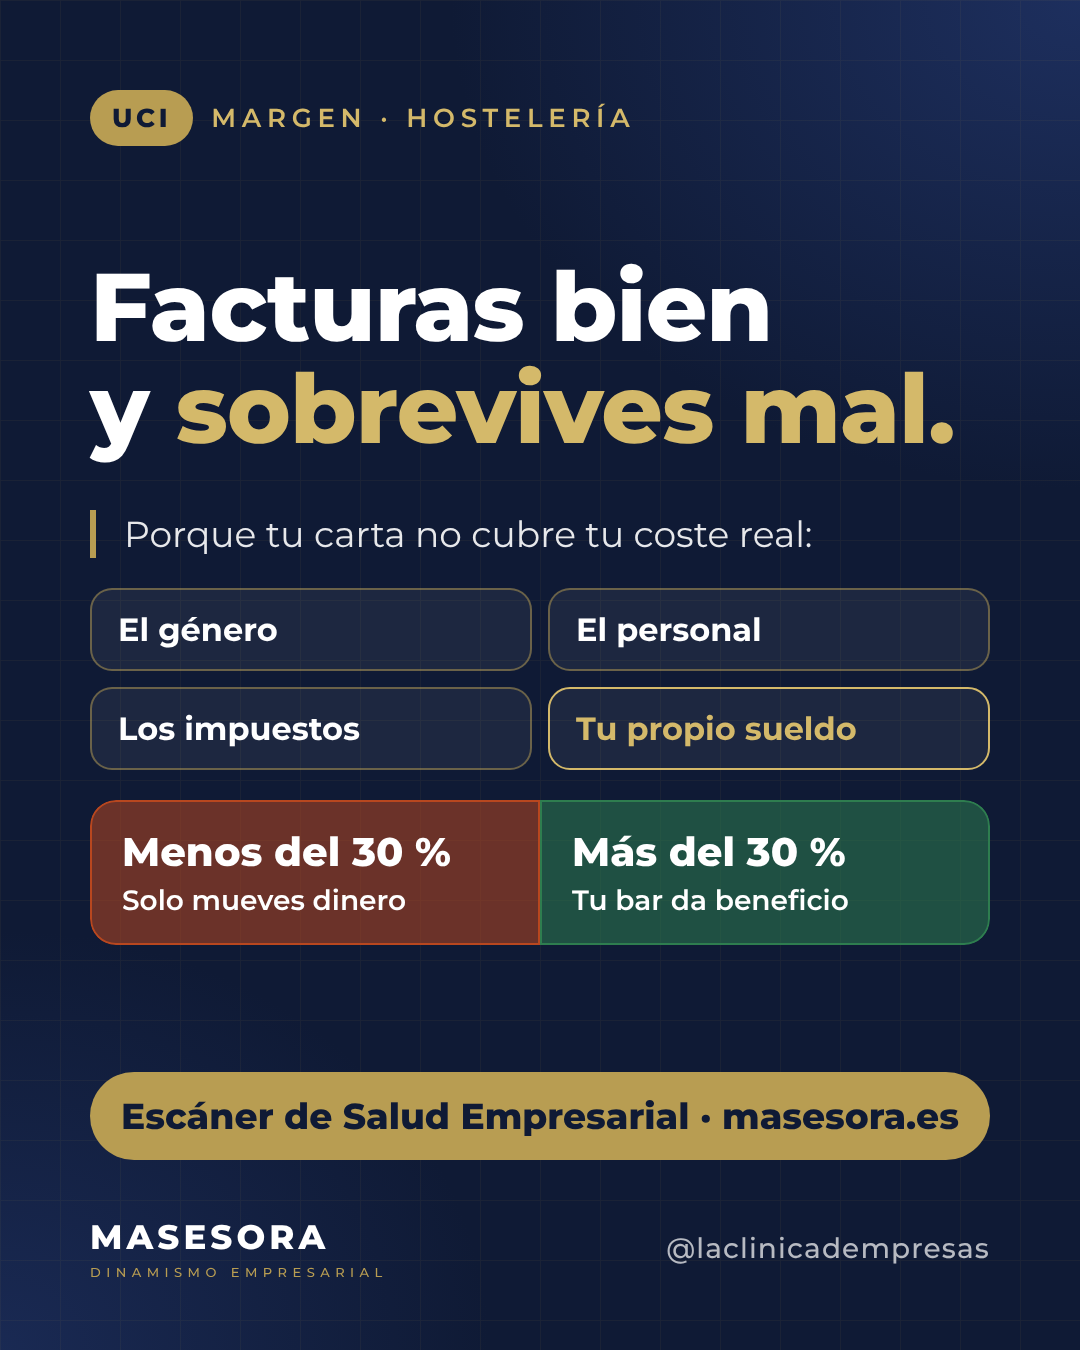
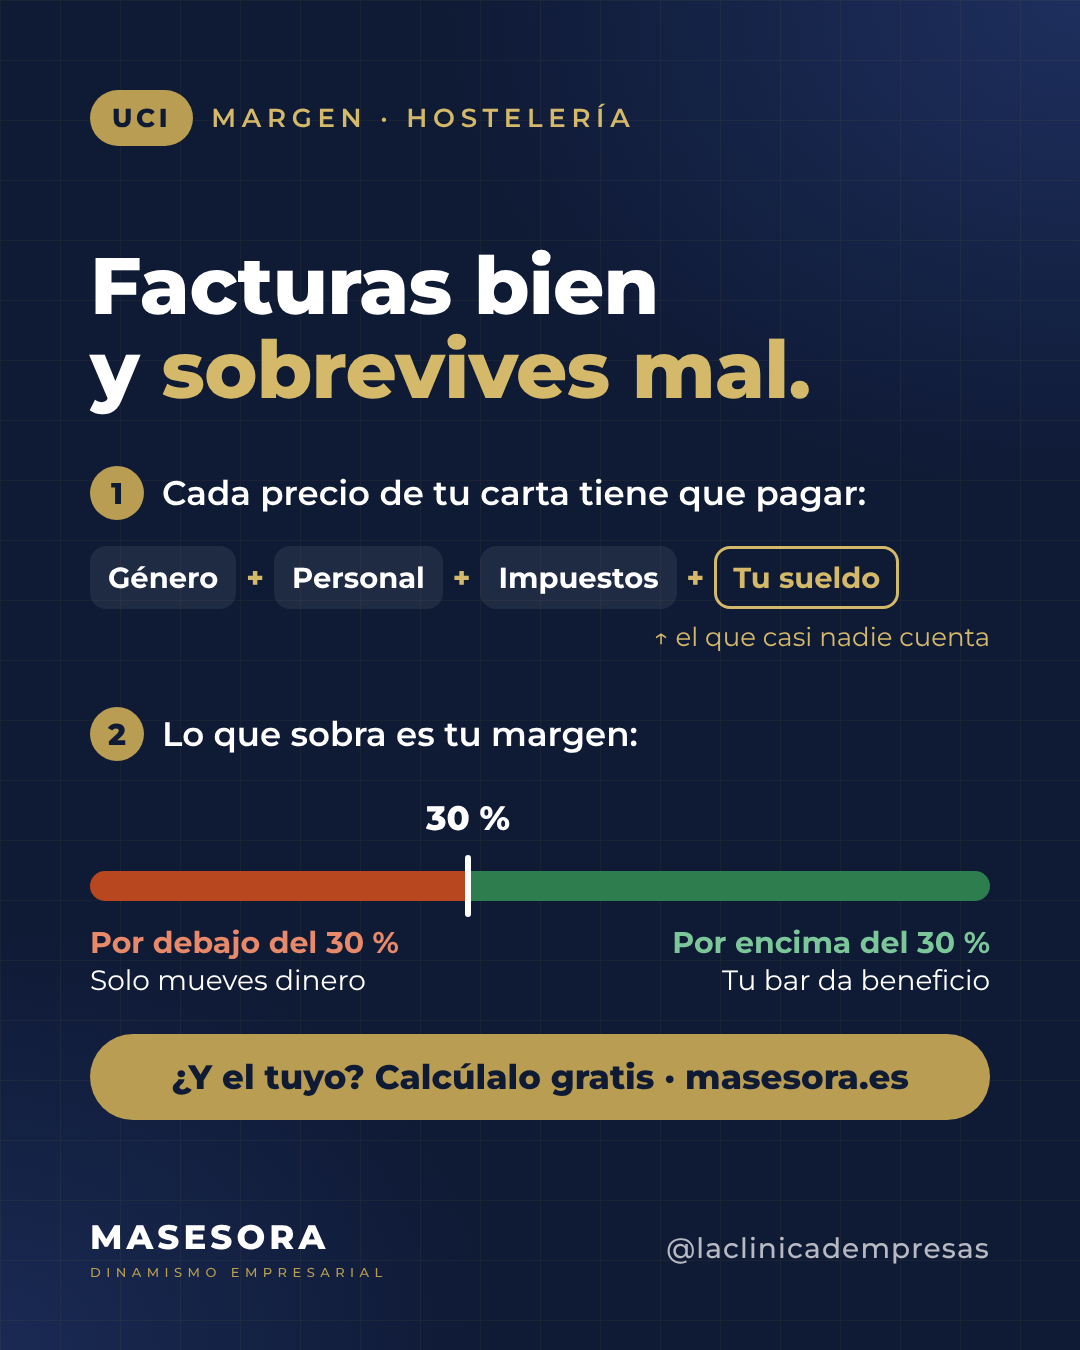
Redes: voz nivel 60; pieza 03 imagen v2 (lectura en orden, regla del 30 %)
Claude-Session: https://claude.ai/code/session_01QN3AukQCP34W3Yd2qtHbgV

Changed region(s): [[0.0611, 0.1867, 0.9167, 0.8711]]

diff --git a/DOCS/6. CONTENIDO REDES/Semana 48 (23-29 nov)/03_mie-25-nov_hosteleria-margen_imagen/assets/slides.html b/DOCS/6. CONTENIDO REDES/Semana 48 (23-29 nov)/03_mie-25-nov_hosteleria-margen_imagen/assets/slides.html
@@ -1,35 +1,51 @@
-<!-- Pieza 03 · Hostelería × Margen · imagen con frase gancho 4:5 (1080x1350). Modelo: piezas 01 y 02, plan v2 §5.3. -->
+<!-- Pieza 03 · Hostelería × Margen · imagen 4:5 (1080x1350). v2 (18 nov): lectura en orden 1 → 2, el 30 % como regla y no como botones. -->
 <style>
-.s1 .tag{margin-bottom:30px}
-.s1 h1{font-size:96px;line-height:1.06;margin-top:80px}
-.s1 .apoyo{margin-top:50px;font-size:36px;line-height:1.36;color:rgba(255,255,255,.9);border-left:6px solid var(--gold);padding-left:28px}
-.costes{display:grid;grid-template-columns:1fr 1fr;gap:16px;margin-top:30px}
-.costes div{background:rgba(255,255,255,.06);border:2px solid rgba(184,157,82,.5);border-radius:22px;padding:20px 26px;font-weight:700;font-size:32px}
-.costes div.yo{border-color:var(--gold2);color:var(--gold2)}
-.s1 .meter{margin:30px 0 24px}
-.s1 .meter div{padding:24px 30px;font-size:28px}
-.s1 .meter b{font-size:40px}
-.s1 .meter .r{background:rgba(46,125,79,.55);border:2px solid var(--ok);border-radius:0 26px 26px 0}
-.s1 .meter .l{background:rgba(184,71,31,.55);border:2px solid var(--crit);color:#fff}
-.s1 .go{margin-top:auto;font-size:36px;padding:22px}
+.s1 h1{font-size:80px;line-height:1.05;margin-top:48px}
+.s1 .paso{display:flex;align-items:center;gap:18px;margin-top:54px;font-size:34px;font-weight:600;color:#fff}
+.s1 .paso .n{flex:none;width:54px;height:54px;border-radius:50%;background:var(--gold);color:var(--navy);font-weight:800;font-size:30px;display:flex;align-items:center;justify-content:center}
+.s1 .suma{display:flex;align-items:center;gap:10px;margin-top:26px;font-size:29px;font-weight:700;white-space:nowrap}
+.s1 .suma .c{padding:14px 18px;border-radius:16px;background:rgba(255,255,255,.07)}
+.s1 .suma .mas{color:var(--gold2);font-weight:800}
+.s1 .suma .yo{background:transparent;border:3px solid var(--gold2);color:var(--gold2);padding:11px 16px;border-radius:16px}
+.s1 .nota{margin-top:12px;font-size:26px;color:var(--gold2);text-align:right}
+.s1 .barra{margin-top:110px;height:30px;border-radius:15px;display:flex;overflow:hidden}
+.s1 .barra .rojo{width:42%;height:30px;background:var(--crit)}
+.s1 .barra .verde{width:58%;height:30px;background:var(--ok)}
+.s1 .marca{position:relative;height:0}
+.s1 .marca i{position:absolute;left:42%;top:-46px;width:6px;height:62px;margin-left:-3px;background:#fff;border-radius:3px}
+.s1 .marca b{position:absolute;left:42%;top:-104px;transform:translateX(-50%);font-size:34px;font-weight:800;color:#fff}
+.s1 .ejes{display:flex;margin-top:22px;font-size:28px;line-height:1.3}
+.s1 .ejes div{width:50%}
+.s1 .ejes div:last-child{text-align:right}
+.s1 .ejes b{display:block;font-size:30px}
+.s1 .ejes .bajo b{color:#E8896A}
+.s1 .ejes .alto b{color:#7BC79A}
+.s1 .go{margin-top:auto;margin-bottom:40px;font-size:34px;padding:22px}
 </style>
 
 <div class="frame s1" data-name="01_imagen">
   <div class="safe">
     <div class="tag"><span class="pill">UCI</span><span class="txt">Margen · Hostelería</span></div>
     <h1>Facturas bien<br>y <span class="gold">sobrevives mal.</span></h1>
-    <div class="apoyo">Porque tu carta no cubre tu coste real:</div>
-    <div class="costes">
-      <div>El género</div>
-      <div>El personal</div>
-      <div>Los impuestos</div>
-      <div class="yo">Tu propio sueldo</div>
+
+    <div class="paso"><span class="n">1</span>Cada precio de tu carta tiene que pagar:</div>
+    <div class="suma">
+      <span class="c">Género</span><span class="mas">+</span>
+      <span class="c">Personal</span><span class="mas">+</span>
+      <span class="c">Impuestos</span><span class="mas">+</span>
+      <span class="yo">Tu sueldo</span>
     </div>
-    <div class="meter">
-      <div class="l"><b>Menos del 30 %</b>Solo mueves dinero</div>
-      <div class="r"><b>Más del 30 %</b>Tu bar da beneficio</div>
+    <div class="nota">↑ el que casi nadie cuenta</div>
+
+    <div class="paso"><span class="n">2</span>Lo que sobra es tu margen:</div>
+    <div class="barra"><div class="rojo"></div><div class="verde"></div></div>
+    <div class="marca"><i></i><b>30 %</b></div>
+    <div class="ejes">
+      <div class="bajo"><b>Por debajo del 30 %</b>Solo mueves dinero</div>
+      <div class="alto"><b>Por encima del 30 %</b>Tu bar da beneficio</div>
     </div>
-    <div class="go">Escáner de Salud Empresarial · masesora.es</div>
+
+    <div class="go">¿Y el tuyo? Calcúlalo gratis · masesora.es</div>
   </div>
   <div class="brand"><div class="wm">MASESORA<small>DINAMISMO EMPRESARIAL</small></div><div class="hd">@laclinicadempresas</div></div>
 </div>

diff --git a/DOCS/6. CONTENIDO REDES/AGENTES/herramientas/voz.py b/DOCS/6. CONTENIDO REDES/AGENTES/herramientas/voz.py
@@ -8,7 +8,7 @@ Uso:
 Pasos:
   1. Extrae la voz a 48 kHz mono.
   2. DeepFilterNet (binario `deep-filter`, gratuito y local) quita ruido y reverberación de la sala.
-     --limpieza son los dB máximos de reducción: 35 suena natural; 100 es limpieza total.
+     --limpieza son los dB máximos de reducción: 60 es el nivel aprobado (18 nov); 100 es limpieza total.
   3. Ecualización de voz: corte de graves, menos «caja» en 250 Hz, presencia en 3 kHz y aire en 10 kHz.
   4. De-esser, compresión suave, quitar silencios largos y velocidad (--tempo).
   5. Volumen final para redes: -16 LUFS la voz sola y -14 LUFS la mezcla con música
@@ -32,7 +32,7 @@ def main():
     ap.add_argument("entrada"); ap.add_argument("salida")
     ap.add_argument("--musica"); ap.add_argument("--mezcla")
     ap.add_argument("--tempo", type=float, default=1.06)
-    ap.add_argument("--limpieza", type=float, default=35)
+    ap.add_argument("--limpieza", type=float, default=60)
     a = ap.parse_args()
     tmp = tempfile.mkdtemp()
     raw = os.path.join(tmp, "voz.wav")

diff --git a/DOCS/6. CONTENIDO REDES/AGENTES/README.md b/DOCS/6. CONTENIDO REDES/AGENTES/README.md
@@ -23,7 +23,7 @@ Trabaja con **10 días de antelación**. Para cada pieza con fecha en los próxi
    - Pantalla dividida: monta el esquema en el lado derecho y deja el izquierdo para el clip de Maite (`assets/clip.mp4`); si no hay clip, se avisa.
 2. Rellena en `pieza.md`: locución (si es vídeo), pie de Instagram, pie de TikTok («Enlace en mi perfil»), hashtags y «Archivos para publicar».
 3. Si hay «Cambios pedidos» sin atender, los aplica, vuelve a exportar y anota en «Estado del agente» qué cambió.
-4. Si aparece `assets/voz.m4a` (o `clip.mp4`) nuevo, limpia primero la voz con `herramientas/voz.py` (nivel de limpieza 35, el que viene por defecto: aprobado por Maite el 18 nov para todas las piezas con audio desde el dom 22) y después vuelve a montar los vídeos.
+4. Si aparece `assets/voz.m4a` (o `clip.mp4`) nuevo, limpia primero la voz con `herramientas/voz.py` (nivel de limpieza 60, el que viene por defecto: aprobado por Maite el 18 nov para todas las piezas con audio desde el dom 22) y después vuelve a montar los vídeos.
 5. Cada vez que aparezca «Escáner de Salud Empresarial» (pantalla, voz o pie), justo detrás va **masesora.es**. Respeta la variedad de formatos de la semana (§4 del plan) y usa `herramientas/reel_animado.py` para reels y piezas con movimiento.
 6. **Kit de distribución** (`KIT_DISTRIBUCION.md`): en cada pieza de vídeo monta además `reel_tiktok_B.mp4` y `reel_tiktok_C.mp4` (mismo cuerpo, otro gancho y otra portada); en todas, `historia.png` (1080×1920) con la encuesta de autodiagnóstico; en los carruseles, `carrusel.pdf`; y escribe en `pieza.md` las secciones «Ganchos A/B/C», «Historia y encuesta», «Palabras de búsqueda» y «Ubicación», y el archivo `compartir.md` (WhatsApp, grupos, Google Business Profile, LinkedIn). La primera línea del pie es una pregunta que se contesta con una palabra o un número.
 7. Revisa las reglas del plan antes de entregar: sin «IA», sin culpar al dueño, cifras solo del plan y etiquetadas como *ejemplo ilustrativo*, sin especialidades que no se venden, sin «piloto», «beta» ni «plazas», sin promesas de devolución. Usuario correcto: **@laclinicadempresas**.
@@ -52,6 +52,6 @@ Trabaja con **10 días de antelación**. Para cada pieza con fecha en los próxi
 
 ## Herramientas
 - `herramientas/clinica.css`: estilos de marca (azul marino, oro, Montserrat), sacados de los diseños antiguos (borrados el 15 nov; siguen en el historial de git).
-- `herramientas/voz.py`: limpieza de voz con DeepFilterNet (nivel 35 fijo), ecualización y mezcla con la música. Necesita el binario `deep-filter` en `~/dfbin/` (ver la cabecera del script).
+- `herramientas/voz.py`: limpieza de voz con DeepFilterNet (nivel 60 fijo), ecualización y mezcla con la música. Necesita el binario `deep-filter` en `~/dfbin/` (ver la cabecera del script).
 - `herramientas/render.py`: exporta `assets/slides.html` a PNG y, con `reel.json`, monta los MP4 de Instagram y TikTok (con voz si existe `voz.m4a`).
 - `herramientas/fonts/`: Montserrat (licencia OFL), incrustada al exportar.

diff --git a/DOCS/6. CONTENIDO REDES/Semana 48 (23-29 nov)/03_mie-25-nov_hosteleria-margen_imagen/pieza.md b/DOCS/6. CONTENIDO REDES/Semana 48 (23-29 nov)/03_mie-25-nov_hosteleria-margen_imagen/pieza.md
@@ -66,12 +66,12 @@ Pieza de imagen (sin vídeo): sale solo el gancho A. Si prefieres otro, escríbe
 - Historia (Instagram): `assets/historia.png`
 
 ## Aprobación (la marcas tú)
-- [x] **APROBADO PARA PUBLICAR** · Maite (18 nov, 22:16)
+- [ ] **APROBADO PARA PUBLICAR** · Maite
 
 *Solo con esta casilla marcada (`[x]`) el agente de programación sube la pieza a Meta Business Suite (Instagram) y a TikTok Studio con la fecha y hora de arriba. Si quieres cambios, escríbelos debajo en «Cambios pedidos» y déjala sin marcar.*
 
 ### Cambios pedidos
--
+- 18 nov, 23:16 · La imagen no se entendía: no se leía el orden ni qué significaban «menos/más del 30 %» (parecían botones). Rehecha en v2: paso 1 (lo que tiene que pagar cada precio, con «tu sueldo» marcado), paso 2 (lo que sobra es tu margen, regla con la línea del 30 %) y cierre «¿Y el tuyo? Calcúlalo gratis · masesora.es». Pendiente de que Maite la apruebe.
 
 ## Estado del agente
 - 16 nov · Producción: imagen, historia, pies, hashtags y `compartir.md` listos para revisar. Cierre con masesora.es, sin «Comenta BAR» (la palabra clave sigue pendiente de tu decisión 6 del §8). En el texto de apoyo, «lo que deberías cobrarte como sueldo» pasa a «tu propio sueldo» (sin «deberías»), y «el material» a «el género», que es como se dice en hostelería.
